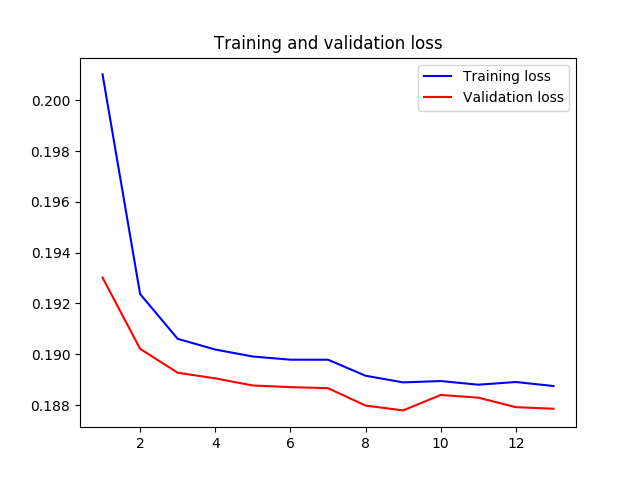
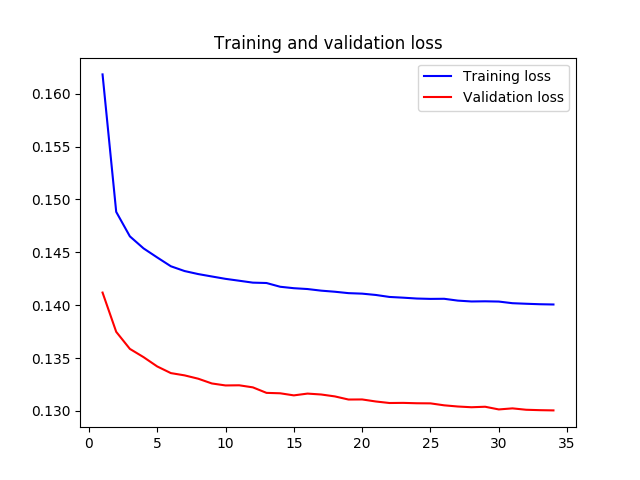
Added count file

diff --git a/AutoEncoder.py b/AutoEncoder.py
@@ -110,8 +110,8 @@ def main():
     #split to validate model during training
     VALIDATION_SPLIT = .2
 
-    pathTrain = 'KDDTrain+aggregateNumeric'
-    pathTest = 'KDDTest+aggregateNumeric'
+    pathTrain = 'KDDTrain+aggregateOneClsNumeric'
+    pathTest = 'KDDTest+aggregateOneClsNumeric'
     train = pd.read_csv(pathTrain + ".csv")
     test = pd.read_csv(pathTest + ".csv")
 
@@ -137,7 +137,7 @@ def main():
         'epochs': 150,
         'optimizer': optimizers.Adam,
         'kernel_initializer': 'glorot_uniform',
-        'losses': 'msle',#mse', #mse o msle a seconda del dataset
+        'losses': 'mse',#mse', #mse o msle a seconda del dataset
         'first_activation': 'tanh',
         'second_activation': 'tanh',
         'third_activation': 'tanh'}
@@ -145,7 +145,7 @@ def main():
     autoencoder = autoEncoder(train_X, p)
     autoencoder.summary()
 
-    #estract encoder layers from autoEncoder
+    #extract encoder layers from autoEncoder
     encoder = Model(inputs=autoencoder.input, outputs=autoencoder.get_layer('encoder3').output)
     encoder.summary()
 
